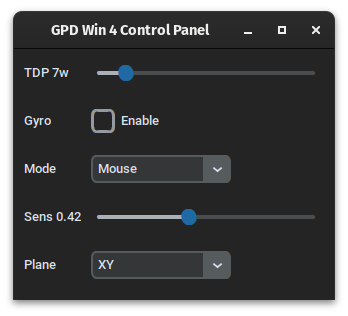
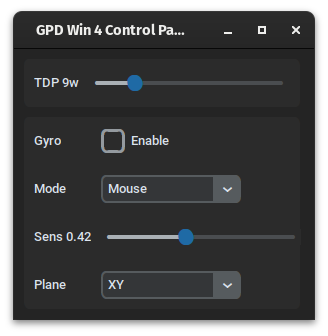
separated parameters with frames

diff --git a/gui.py b/gui.py
@@ -12,46 +12,53 @@ class GPDWin4CP(gui.CTk):
         self.gyro_cfg = json.load(open(self.GYRO_CFG_PATH))
         self.last_tdp = int(open(self.TDP_LIM_PATH).read())
 
-        self.geometry('320x250')
         self.title('GPD Win 4 Control Panel')
+        self.geometry('300x270')
+        self.resizable(False, True)
 
         self._init_tdp()
         self._init_gyro()
 
     def _init_tdp(self):
-        self.tdp_label = gui.CTkLabel(self, text=f'TDP {self.last_tdp}w')
+        self.tdp_frame = gui.CTkFrame(self)
+        self.tdp_frame.grid(row=0, column=0, padx=10, pady=(10, 0), sticky='NSEW')
+
+        self.tdp_label = gui.CTkLabel(self.tdp_frame, text=f'TDP {self.last_tdp}w')
         self.tdp_label.grid(row=0, column=0, padx=10, pady=10, sticky='w')
 
-        self.tdp_slider = gui.CTkSlider(self, from_=4, to=28, number_of_steps=24, width=230, command=self.tdp_slider_cb)
+        self.tdp_slider = gui.CTkSlider(self.tdp_frame, from_=4, to=28, number_of_steps=24, command=self.tdp_slider_cb)
         self.tdp_slider.set(self.last_tdp)
         self.tdp_slider.grid(row=0, column=1, sticky='w')
 
     def _init_gyro(self):
-        self.gyro_label = gui.CTkLabel(self, text='Gyro')
-        self.gyro_label.grid(row=1, column=0, padx=10, pady=10, sticky='w')
+        self.gyro_frame = gui.CTkFrame(self)
+        self.gyro_frame.grid(row=1, column=0, padx=10, pady=(10, 0), sticky='NSEW')
 
-        self.gyro_enable = gui.CTkCheckBox(self, text='Enable', command=self.gyro_enable_cb)
+        self.gyro_label = gui.CTkLabel(self.gyro_frame, text='Gyro')
+        self.gyro_label.grid(row=0, column=0, padx=10, pady=10, sticky='w')
+
+        self.gyro_enable = gui.CTkCheckBox(self.gyro_frame, text='Enable', command=self.gyro_enable_cb)
         self.gyro_enable._check_state = self.gyro_cfg['enable']
-        self.gyro_enable.grid(row=1, column=1, sticky='w')
+        self.gyro_enable.grid(row=0, column=1, sticky='w')
 
-        self.gyro_mode_label = gui.CTkLabel(self, text='Mode')
-        self.gyro_mode_label.grid(row=2, column=0, padx=10, pady=10, sticky='w')
+        self.gyro_mode_label = gui.CTkLabel(self.gyro_frame, text='Mode')
+        self.gyro_mode_label.grid(row=1, column=0, padx=10, pady=10, sticky='w')
 
-        self.gyro_mode = gui.CTkComboBox(self, values=['Mouse', 'Gamepad'], command=self.gyro_mode_cb)
-        self.gyro_mode.grid(row=2, column=1, sticky='w')
+        self.gyro_mode = gui.CTkComboBox(self.gyro_frame, values=['Mouse', 'Gamepad'], command=self.gyro_mode_cb)
+        self.gyro_mode.grid(row=1, column=1, sticky='w')
 
-        self.gyro_sens_label = gui.CTkLabel(self, text=f'Sens {self.gyro_cfg["sens"]}')
-        self.gyro_sens_label.grid(row=3, column=0, padx=10, pady=10, sticky='w')
+        self.gyro_sens_label = gui.CTkLabel(self.gyro_frame, text=f'Sens {self.gyro_cfg["sens"]}')
+        self.gyro_sens_label.grid(row=2, column=0, padx=10, pady=10, sticky='w')
 
-        self.gyro_sens = gui.CTkSlider(self, from_=0, to=1, number_of_steps=100, width=230, command=self.gyro_sens_slider_cb)
+        self.gyro_sens = gui.CTkSlider(self.gyro_frame, from_=0, to=1, number_of_steps=100, command=self.gyro_sens_slider_cb)
         self.gyro_sens.set(self.gyro_cfg['sens'])
-        self.gyro_sens.grid(row=3, column=1, sticky='w')
+        self.gyro_sens.grid(row=2, column=1, sticky='w')
 
-        self.gyro_plane_label = gui.CTkLabel(self, text='Plane')
-        self.gyro_plane_label.grid(row=4, column=0, padx=10, pady=10, sticky='w')
+        self.gyro_plane_label = gui.CTkLabel(self.gyro_frame, text='Plane')
+        self.gyro_plane_label.grid(row=3, column=0, padx=10, pady=10, sticky='w')
 
-        self.gyro_plane = gui.CTkComboBox(self, values=['XY', 'XZ'], command=self.gyro_plane_cb)
-        self.gyro_plane.grid(row=4, column=1, sticky='w')
+        self.gyro_plane = gui.CTkComboBox(self.gyro_frame, values=['XY', 'XZ'], command=self.gyro_plane_cb)
+        self.gyro_plane.grid(row=3, column=1, sticky='w')
 
     def save_gyro(self):
         json.dump(self.gyro_cfg, open(self.GYRO_CFG_PATH, 'w'))
